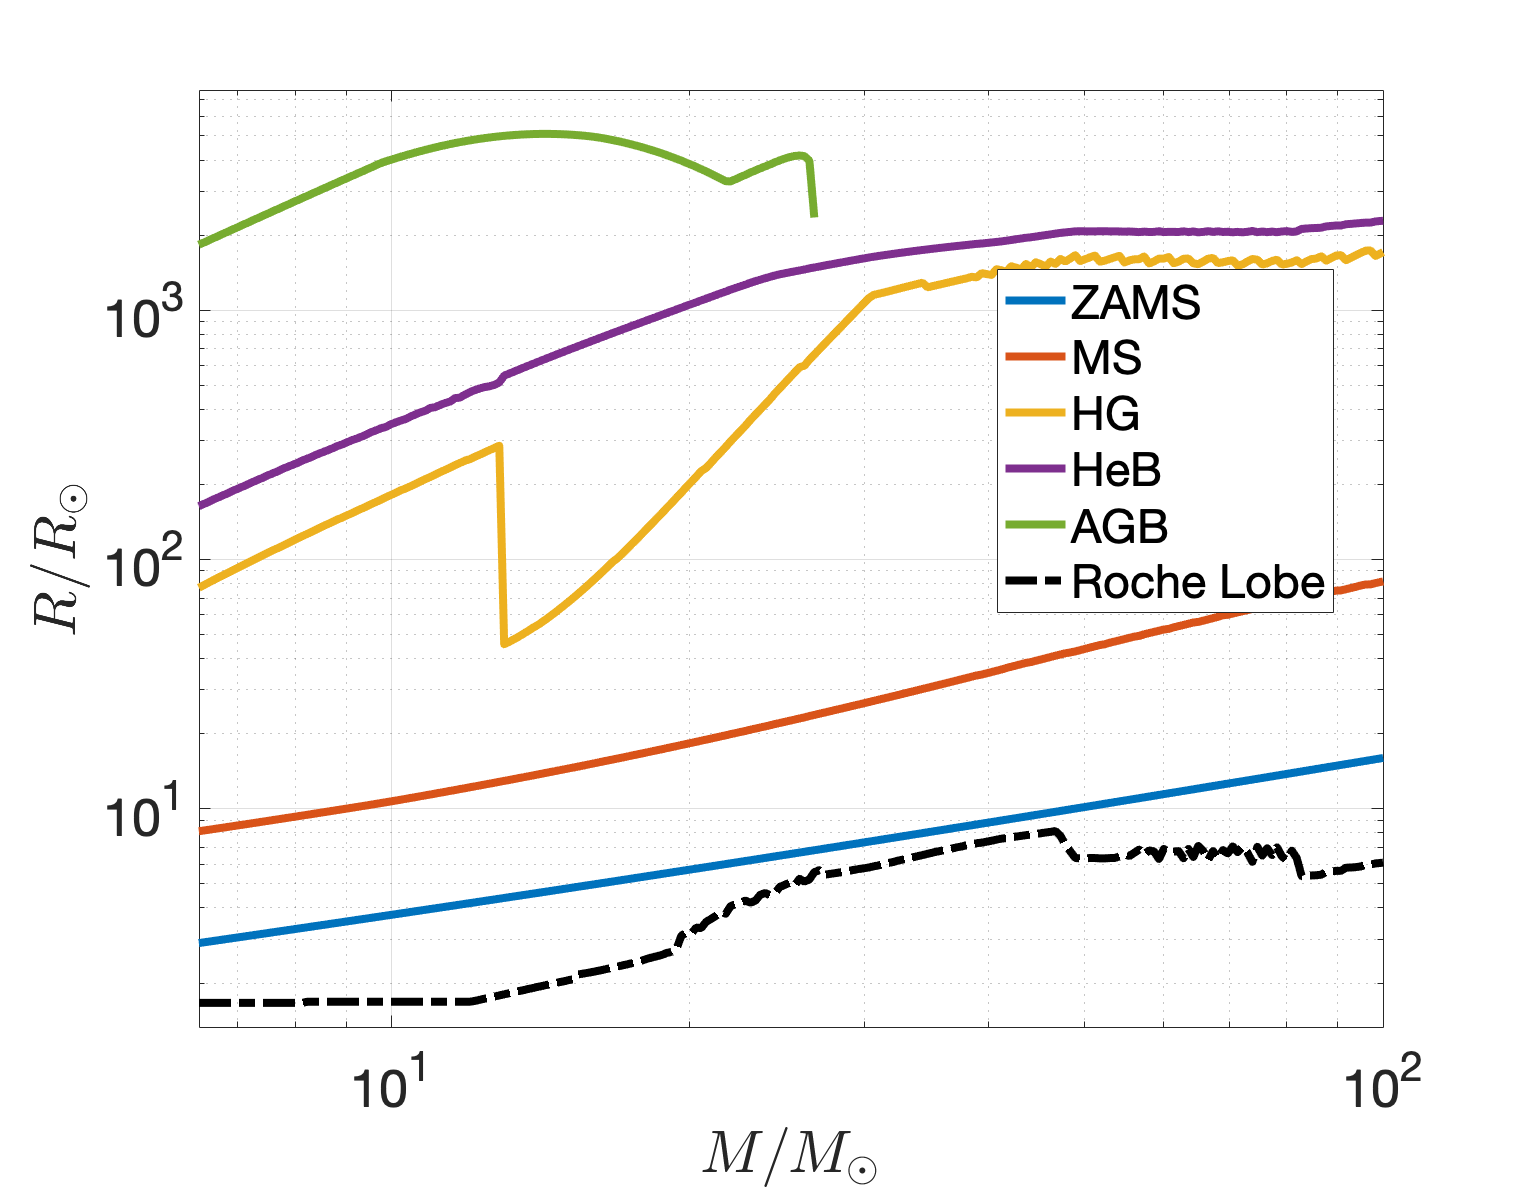
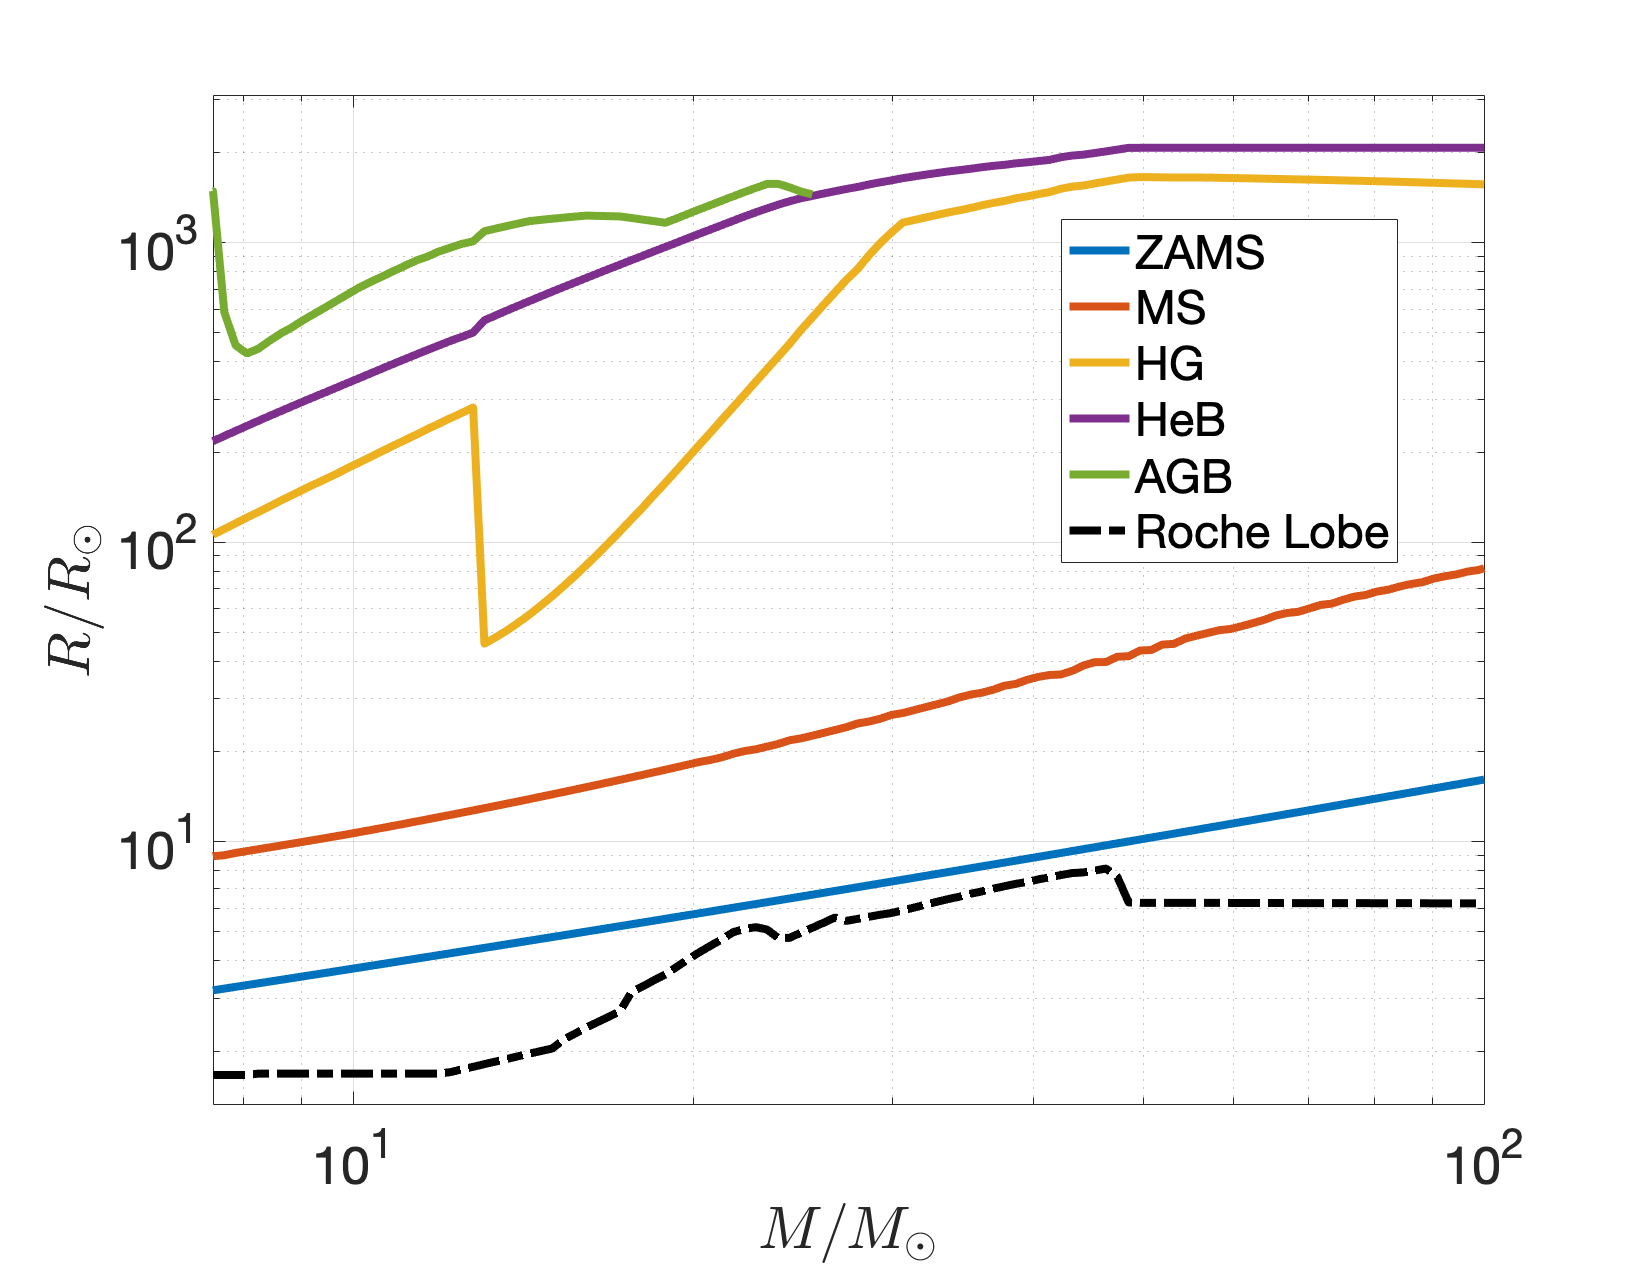
Updated plots

diff --git a/PlottingRadiiRemnants.m b/PlottingRadiiRemnants.m
@@ -154,7 +154,7 @@ for(i=1:N),
     fprintf(file,gridline);
 end;
 for(i=1:N),
-    gridline=['--initial-mass ', num2str(m1(i)), ' --metallicity 0.001\n'];
+    gridline=['--initial-mass ', num2str(m1(i)), ' --metallicity 0.0001\n'];
     fprintf(file,gridline);
 end;   
 fclose(file);
@@ -191,15 +191,17 @@ end;
 %Redo figures 3,4 of Mandel & Farmer using SSE file
 M=zeros(N,1); R0=zeros(N,1); RMS=zeros(N,1); RHG=zeros(N,1); RHeB=zeros(N,1); RAGB=zeros(N,1); MCO=zeros(N,1);
 %solar, Z=0.0142
-prefix='/Users/ilyam/Work/COMPAS/COMPAS/src/SSEgridMandelFarmer/Detailed_Output/SSE_Detailed_Output_';
+prefix='/Users/ilyam/Work/COMPAS/COMPAS/src/SSEgridMandelFarmerSmallStep/Detailed_Output/SSE_Detailed_Output_';
 for(i=1:N),
     file=[prefix,num2str(i-1),'.h5'];
     mass=h5read(file,'/Mass');
     radius=h5read(file,'/Radius');
     time=h5read(file,'/Time');
     ST=h5read(file,'/Stellar_Type');
+    dT=h5read(file,'/dT');
     M(i)=mass(1);
     R0(i)=radius(1);
+    dTmin(i)=min(dT);
     if(~isempty(max(radius(ST==1 | ST==0)))),  RMS(i)=max(radius(ST==1 | ST==0)); end;
     if(~isempty(max(radius(ST==2)))), RHG(i)=max(radius(ST==2)); end;
     if(~isempty(max(radius(ST==3 | ST==4)))), RHeB(i)=max(radius(ST==3 | ST==4)); end;
@@ -244,7 +246,7 @@ for(i=1:500),
     if(ST(length(mass))==13 | ST(length(mass))==14), MCOlow(i)=mass(length(mass)); end;
 end;
     
-figure(110)
+figure(111)
 set(gca,'FontSize',14), 
 semilogy(M,R0, ...
     M,RMS,...
@@ -258,7 +260,7 @@ xlabel('$M / M_\odot$', 'Interpreter','latex'),
 ylabel ('$R / R_\odot$', 'Interpreter','latex'),
 legend('ZAMS','MS','HG','CHeB','AGB','Location','SouthEast');
     
-figure(140)
+figure(141)
 set(gca,'FontSize',14),
 loglog(M,MCO,'*',...
 	Mlow,MCOlow,'*', 'LineWidth',3),
